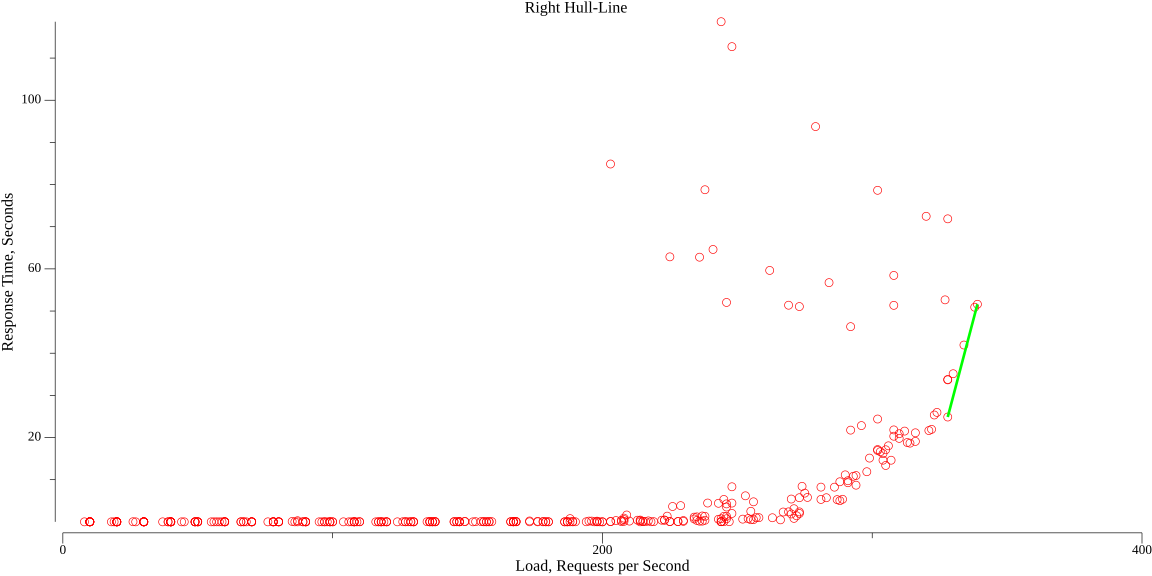
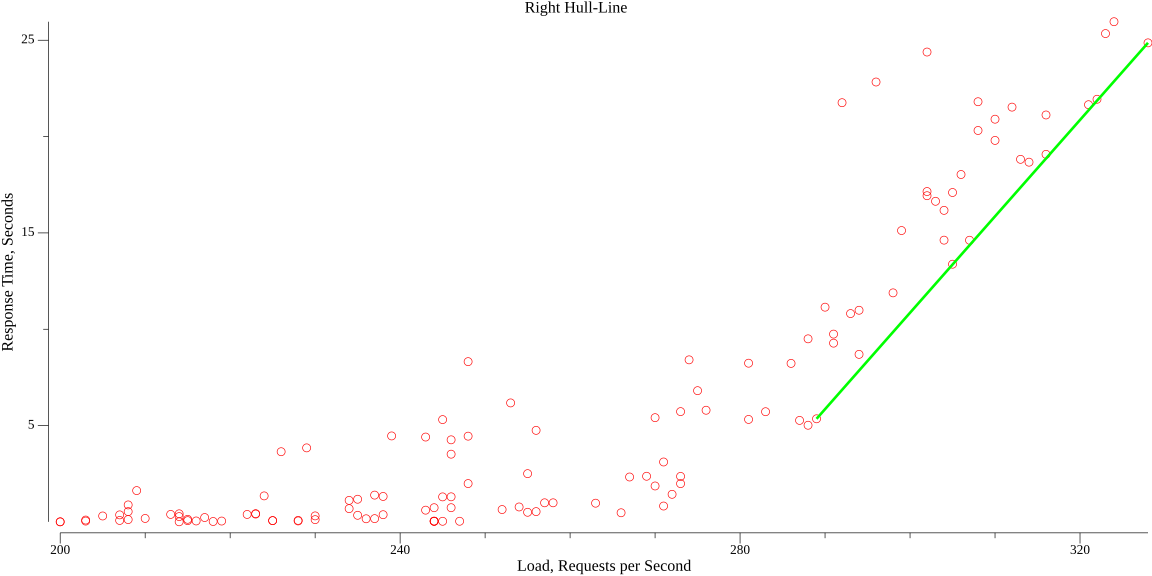
Better hull

diff --git a/cmd/hull/hull.go b/cmd/hull/hull.go
@@ -56,18 +56,18 @@ func main() {
 	r.FieldsPerRecord = -1 // ignore differences
 
 	points := readCsv(r, filename, minX, maxY, verbose)
-	start, end, low, high := FindLowerHullLine(points, verbose)
+	start, end, _, _ := FindLowerHullLine(points, minX, maxY, verbose)
 	m, b := slopeIntercept(start.X, start.Y, end.X, end.Y)
 	fmt.Printf("Line from (%v,%v) to (%v,%v), y = mx + b = %vx + %v\n",
 		start.X, start.Y, end.X, end.Y, m, b)
-	plotPointsAndLine(points, start, end, low, high, "lower_hull.png")
+	plotPointsAndLine(points, start, end, minX, maxY, "lower_hull.png")
 
 }
 
 // FindLowerHullLine Finds the lowest point as the starting point,
 // searches for the best endpoint that ensures no other points are
 // below the line and returns the start and end points of the hull line
-func FindLowerHullLine(points []Point, verbose bool) (Point, Point, float64, float64) {
+func FindLowerHullLine(points []Point, minX, maxY float64, verbose bool) (Point, Point, float64, float64) {
 	low := 0.0
 	high := 400.0
 
@@ -78,9 +78,6 @@ func FindLowerHullLine(points []Point, verbose bool) (Point, Point, float64, flo
 	// Find highest right point
 	start := points[0]
 	for _, p := range points {
-		//if p.Y < start.Y || (p.Y == start.Y && p.X < start.X) {
-		//    start = p
-		//}
 		if p.X > start.X {
 			start = p
 		}
@@ -94,25 +91,22 @@ func FindLowerHullLine(points []Point, verbose bool) (Point, Point, float64, flo
 	found := false
 
 	// check if no other points fall below the potential line
-	// This a uses a cross-product calculation and it's O(N^2)
+	// This a uses a cross-product calculation and it's O(N^2). See below.
 	for _, candidate := range points {
-		// ignore points to the left of start
-		// if candidate.X <= start.X {
 		// ignore points to the right of start
 		if candidate.X >= start.X {
 			continue
 		}
+		// check bounds
+		if candidate.X < minX || candidate.Y > maxY {
+			continue
+		}
 
-		// Duplicate inner loop, making it O(n^2)
+		// Nested duplicate loop, making it O(n^2)
 		valid := true
 		for _, p := range points {
 			// ignore points to the right
 			if p.X >= start.X || p == candidate {
-				continue
-			}
-			if p.X < .1 {
-				// throw away points close to zero
-				// this is a heuristic, and depends on the data
 				continue
 			}
 
@@ -199,6 +193,10 @@ func readCsv(r *csv.Reader, filename string, minX, maxY float64, verbose bool) [
 	var recNo = 0
 	var point Point
 	var points = make([]Point, 0)
+
+	if verbose {
+		log.Printf("minX = %v, maxY = %v\n", minX, maxY)
+	}
 forloop:
 	for ; ; recNo++ {
 		record, err := r.Read()
